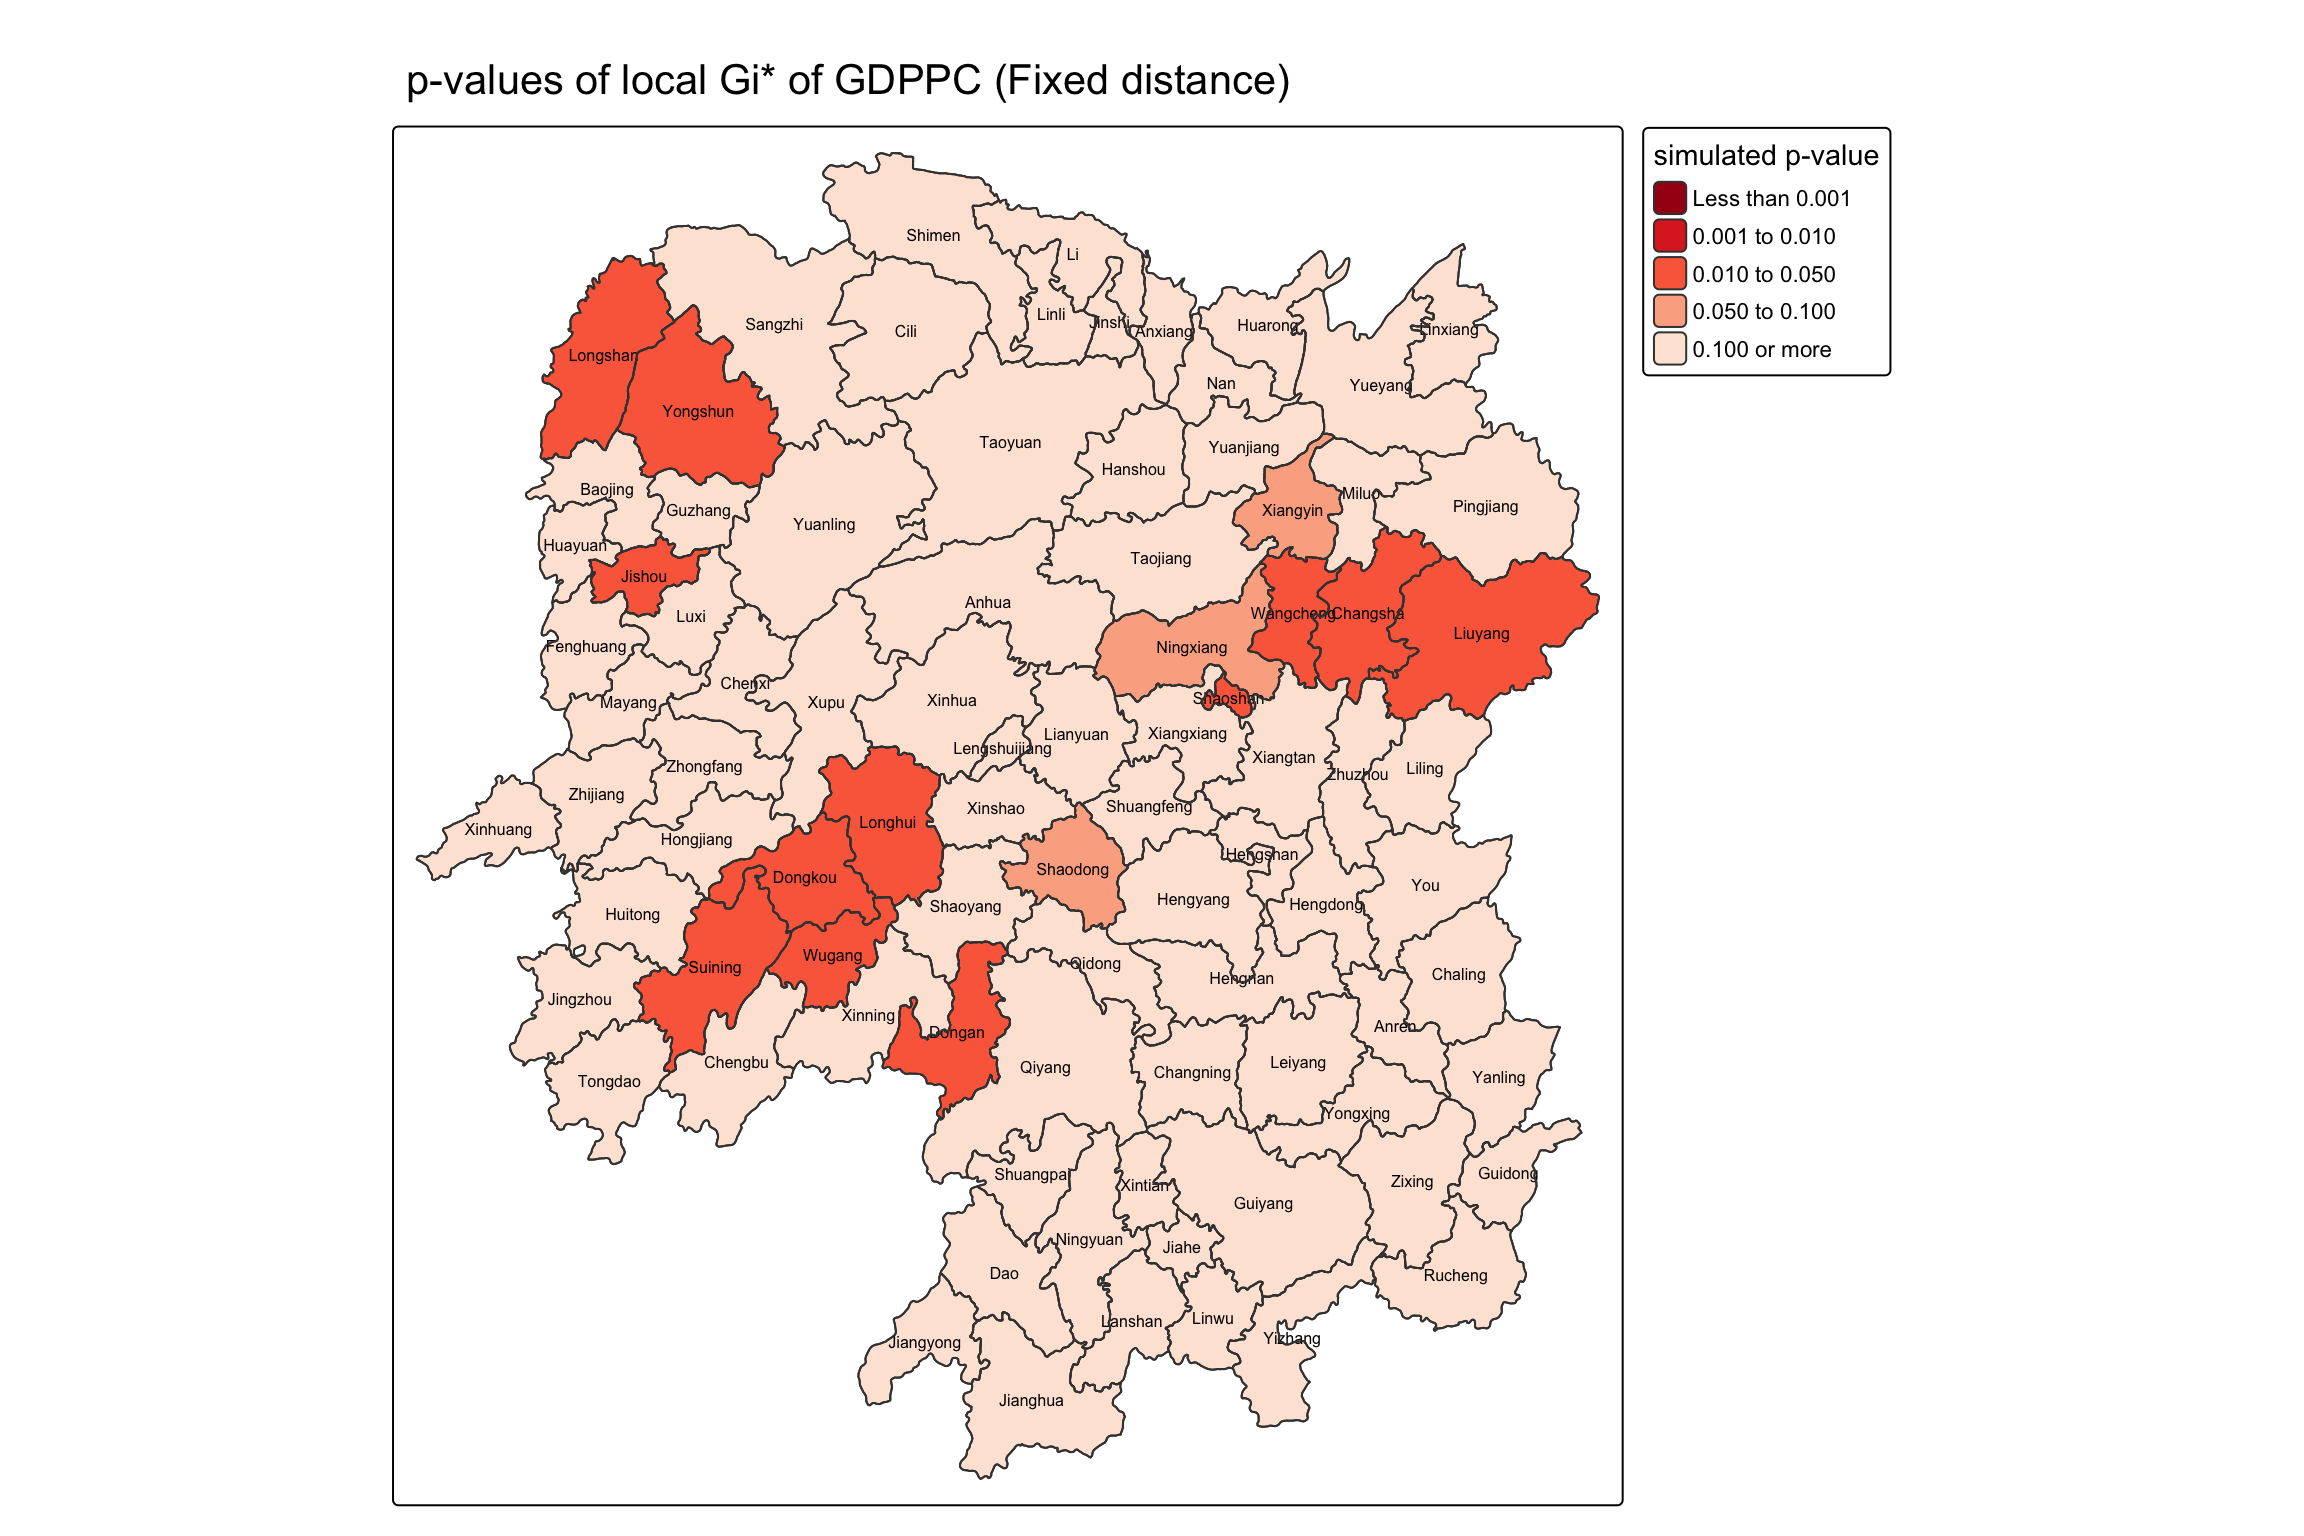
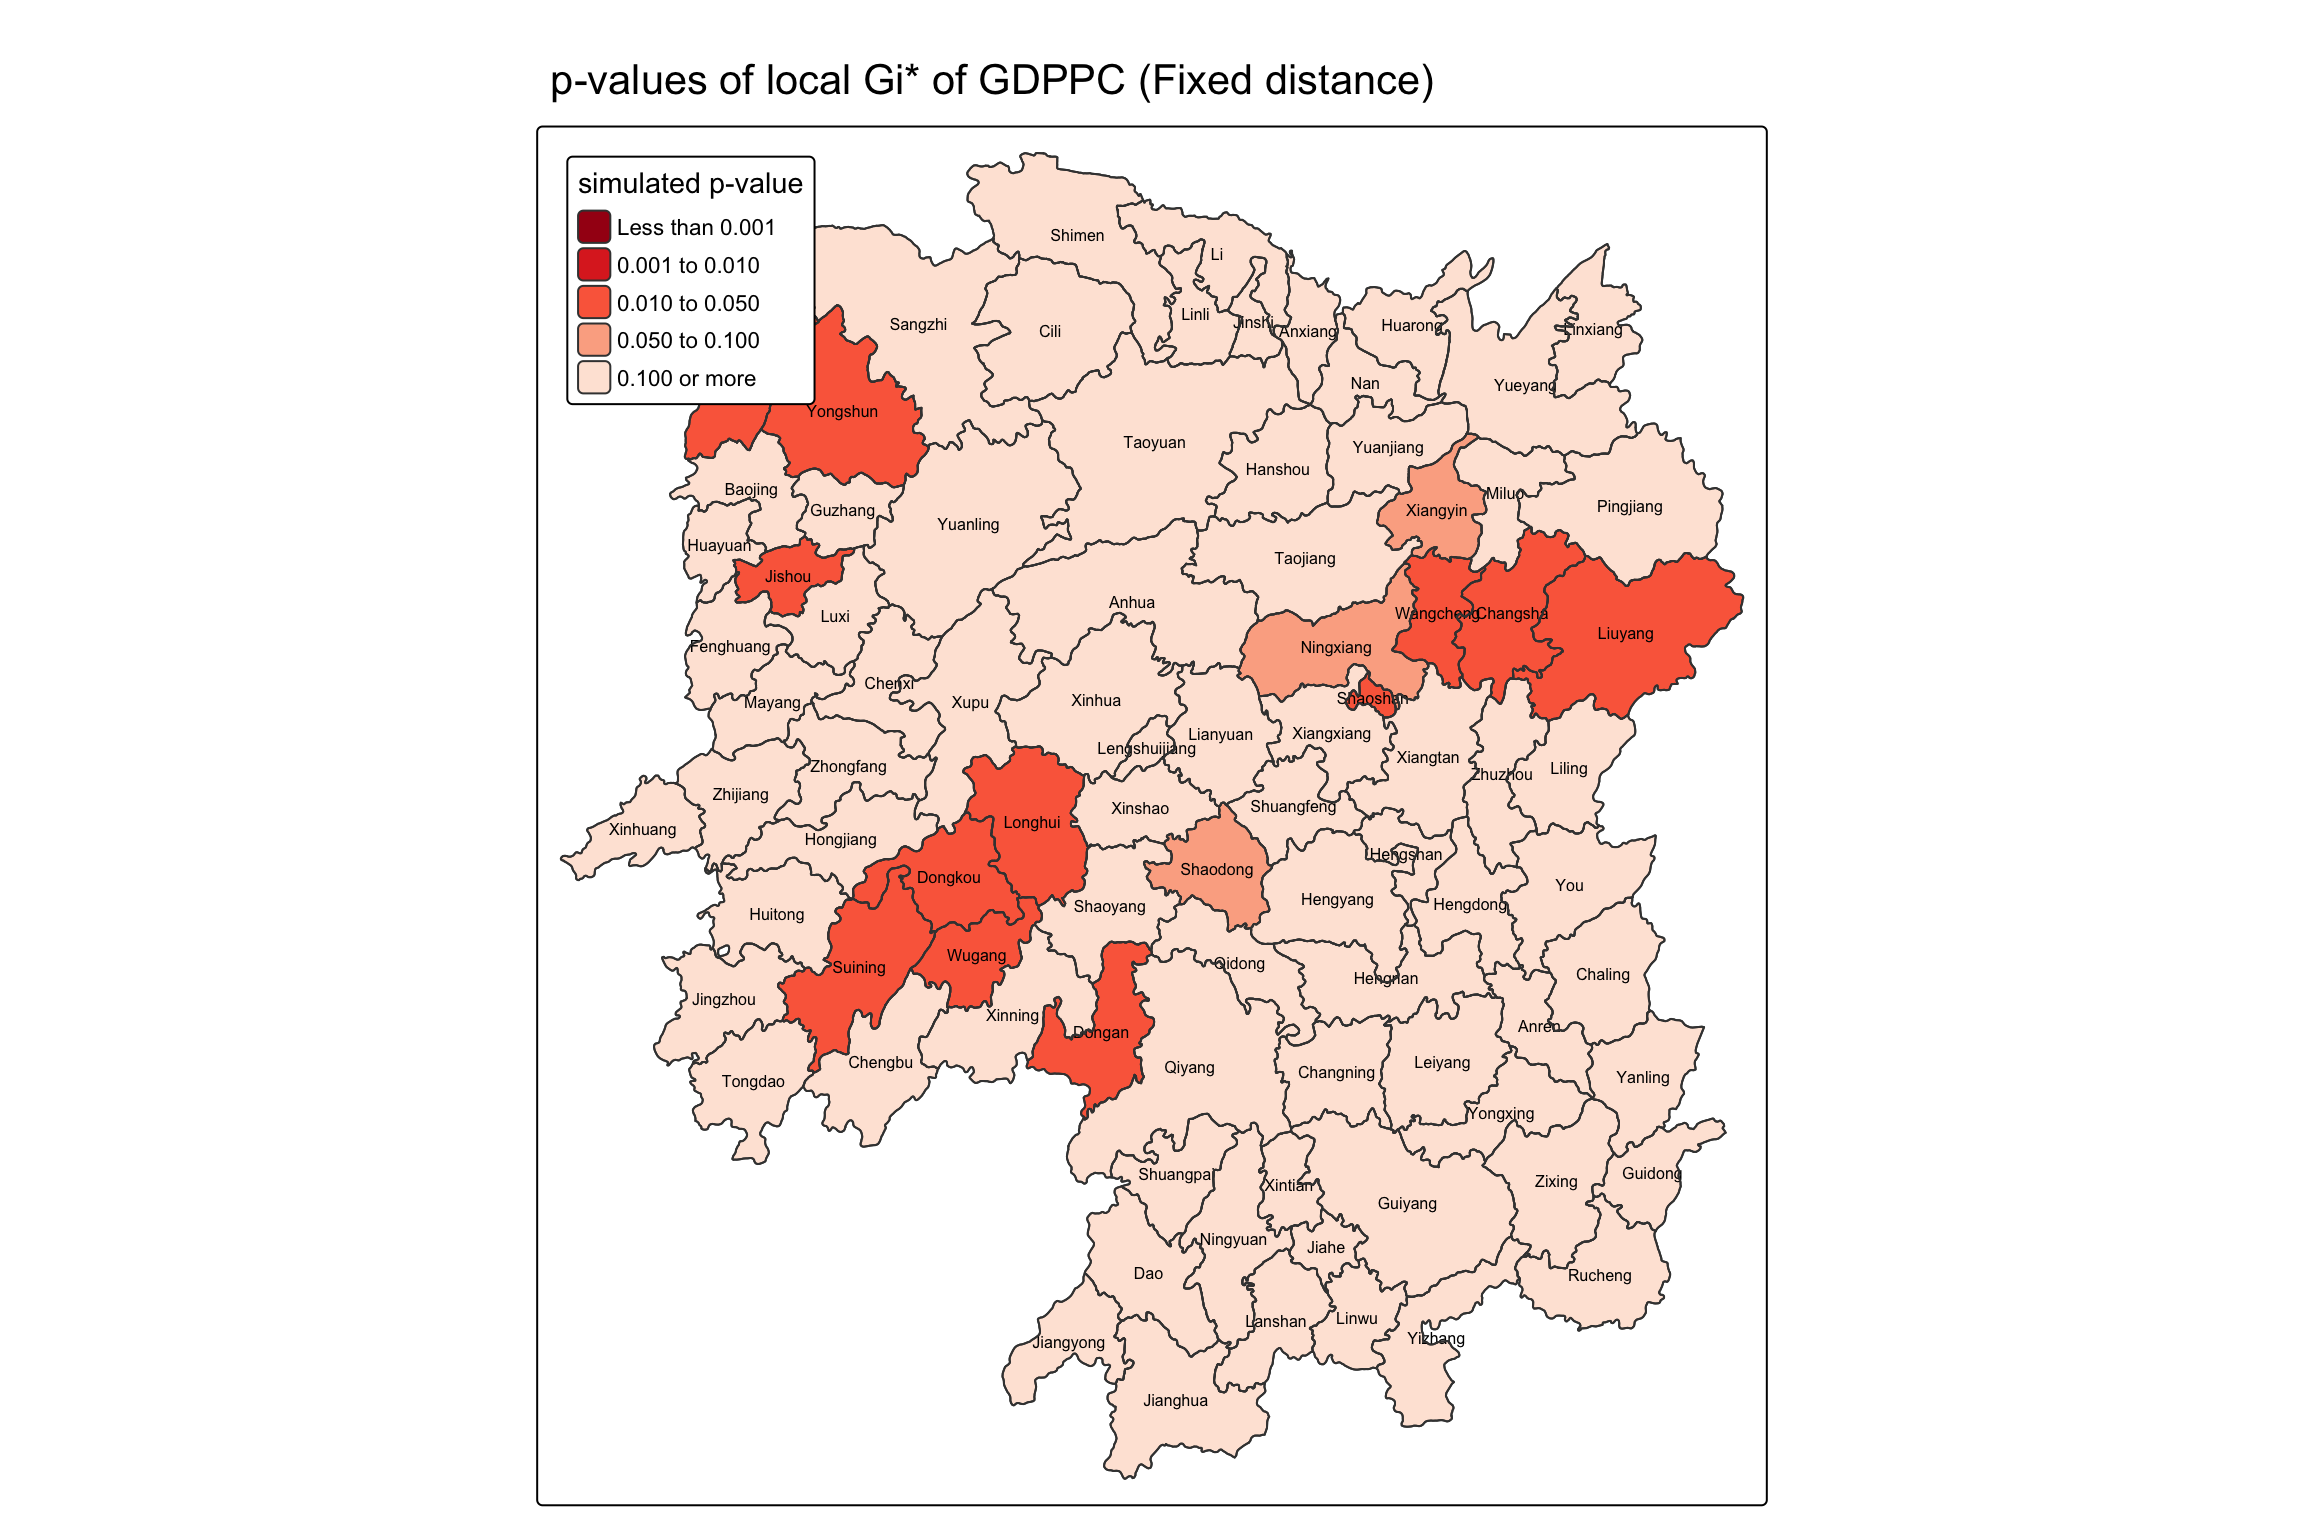
commit1010v4
new update

Changed region(s): [[0.1875, 0.0938, 0.8125, 0.9688], [0.1875, 0.0312, 0.625, 0.0625]]

diff --git a/_site/Hands-on_Ex/Hands-on_Ex05/Hands-on_Ex05b.html b/_site/Hands-on_Ex/Hands-on_Ex05/Hands-on_Ex05b.html
@@ -1019,7 +1019,7 @@ Projected CRS: WGS 84 / UTM zone 50N
 <span id="cb30-6"><a href="#cb30-6" aria-hidden="true" tabindex="-1"></a>                <span class="at">values =</span> <span class="st">"brewer.rd_bu"</span>),</span>
 <span id="cb30-7"><a href="#cb30-7" aria-hidden="true" tabindex="-1"></a>              <span class="at">fill.legend =</span> <span class="fu">tm_legend</span>(</span>
 <span id="cb30-8"><a href="#cb30-8" aria-hidden="true" tabindex="-1"></a>                <span class="at">title =</span> <span class="st">"Gi*"</span>,</span>
-<span id="cb30-9"><a href="#cb30-9" aria-hidden="true" tabindex="-1"></a>                <span class="at">position =</span> <span class="fu">tm_pos_out</span>())) <span class="sc">+</span> </span>
+<span id="cb30-9"><a href="#cb30-9" aria-hidden="true" tabindex="-1"></a>                <span class="at">position =</span> <span class="fu">tm_pos_in</span>())) <span class="sc">+</span> </span>
 <span id="cb30-10"><a href="#cb30-10" aria-hidden="true" tabindex="-1"></a>    <span class="fu">tm_text</span>(<span class="st">"NAME_3"</span>, <span class="at">size =</span> <span class="fl">0.5</span>) <span class="sc">+</span></span>
 <span id="cb30-11"><a href="#cb30-11" aria-hidden="true" tabindex="-1"></a>  <span class="fu">tm_borders</span>(<span class="at">fill_alpha =</span> <span class="fl">0.5</span>) <span class="sc">+</span></span>
 <span id="cb30-12"><a href="#cb30-12" aria-hidden="true" tabindex="-1"></a>  <span class="fu">tm_title</span>(<span class="st">"Gi* of GDPPC (Fixed Bandwidth d = 60799.91m)"</span>)</span></code><button title="Copy to Clipboard" class="code-copy-button"><i class="bi"></i></button></pre></div>
@@ -1035,7 +1035,7 @@ Projected CRS: WGS 84 / UTM zone 50N
 <div id="tabset-2-2" class="tab-pane" role="tabpanel" aria-labelledby="tabset-2-2-tab">
 <p>The choropleth shows there is evidence for both positive and negative Gi* values. However, it is useful to consider the p-values for each of these values, as consider above.</p>
 <p>The code chunk below plots a choropleth map of p-values of Gi* by using functions of <strong>tmap</strong> package.</p>
-<div class="cell">
+<div class="cell" data-layout-align="center">
 <div class="sourceCode cell-code" id="cb31"><pre class="sourceCode r code-with-copy"><code class="sourceCode r"><span id="cb31-1"><a href="#cb31-1" aria-hidden="true" tabindex="-1"></a>  <span class="fu">tm_shape</span>(HCSA_fdw) <span class="sc">+</span>   </span>
 <span id="cb31-2"><a href="#cb31-2" aria-hidden="true" tabindex="-1"></a>  <span class="fu">tm_polygons</span>(<span class="at">fill =</span> <span class="st">"p_sim"</span>,                </span>
 <span id="cb31-3"><a href="#cb31-3" aria-hidden="true" tabindex="-1"></a>              <span class="at">fill.scale =</span> <span class="fu">tm_scale_intervals</span>(                 </span>
@@ -1043,14 +1043,14 @@ Projected CRS: WGS 84 / UTM zone 50N
 <span id="cb31-5"><a href="#cb31-5" aria-hidden="true" tabindex="-1"></a>                <span class="at">values =</span> <span class="st">"-brewer.Reds"</span>),               </span>
 <span id="cb31-6"><a href="#cb31-6" aria-hidden="true" tabindex="-1"></a>              <span class="at">fill.legend =</span> <span class="fu">tm_legend</span>(                 </span>
 <span id="cb31-7"><a href="#cb31-7" aria-hidden="true" tabindex="-1"></a>                <span class="at">title =</span> <span class="st">"simulated p-value"</span>,       </span>
-<span id="cb31-8"><a href="#cb31-8" aria-hidden="true" tabindex="-1"></a>                <span class="at">position =</span> <span class="fu">tm_pos_out</span>())) <span class="sc">+</span>    </span>
+<span id="cb31-8"><a href="#cb31-8" aria-hidden="true" tabindex="-1"></a>                <span class="at">position =</span> <span class="fu">tm_pos_in</span>())) <span class="sc">+</span>    </span>
 <span id="cb31-9"><a href="#cb31-9" aria-hidden="true" tabindex="-1"></a>    <span class="fu">tm_text</span>(<span class="st">"NAME_3"</span>, <span class="at">size =</span> <span class="fl">0.5</span>) <span class="sc">+</span></span>
 <span id="cb31-10"><a href="#cb31-10" aria-hidden="true" tabindex="-1"></a>  <span class="fu">tm_borders</span>(<span class="at">fill_alpha =</span> <span class="fl">0.5</span>) <span class="sc">+</span>   </span>
 <span id="cb31-11"><a href="#cb31-11" aria-hidden="true" tabindex="-1"></a>  <span class="fu">tm_title</span>(<span class="st">"p-values of local Gi* of GDPPC (Fixed distance)"</span>)</span></code><button title="Copy to Clipboard" class="code-copy-button"><i class="bi"></i></button></pre></div>
 <div class="cell-output-display">
-<div>
+<div class="quarto-figure quarto-figure-center">
 <figure class="figure">
-<p><img src="Hands-on_Ex05b_files/figure-html/unnamed-chunk-27-1.png" class="img-fluid figure-img" width="1152"></p>
+<p><img src="Hands-on_Ex05b_files/figure-html/unnamed-chunk-27-1.png" class="img-fluid quarto-figure quarto-figure-center figure-img" width="1152"></p>
 </figure>
 </div>
 </div>
